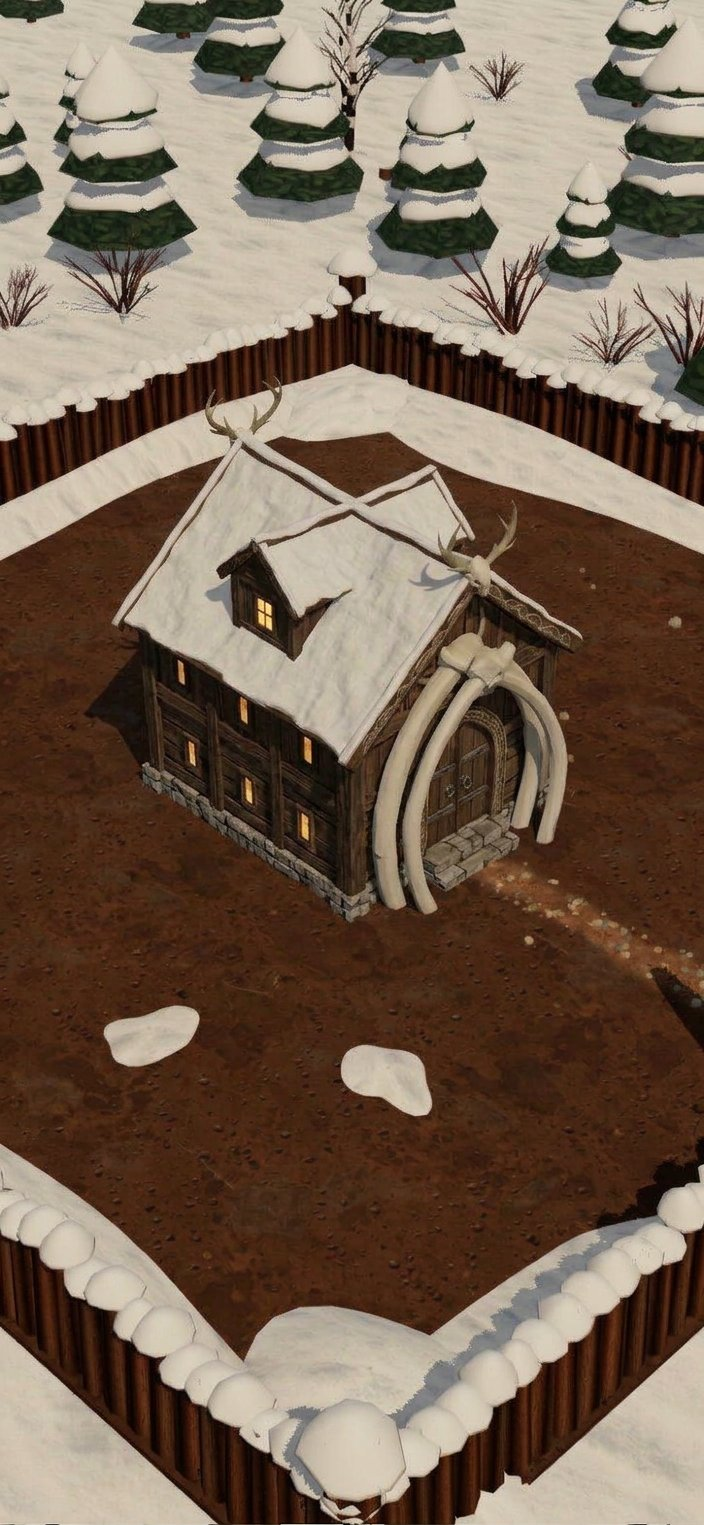
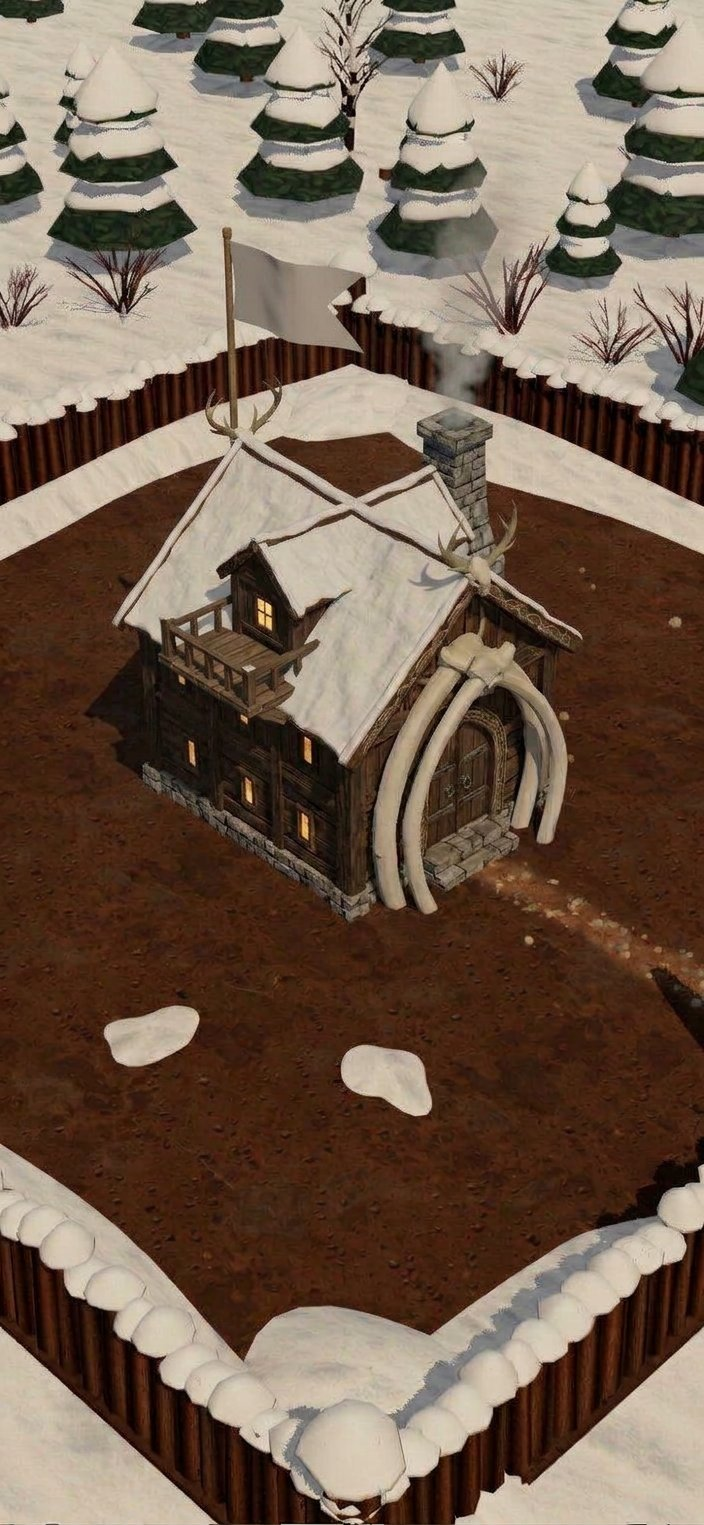
Цитадель: адаптивный флаг на всех стадиях, III усилена; решения записаны

diff --git a/docs/game/27-buildings-analysis.md b/docs/game/27-buildings-analysis.md
@@ -168,6 +168,8 @@
 3. После выбора общего стиля остальные здания делаем постепенно в нём же.
 4. **Прогресс виден внешне:** у каждого здания 25 уровней и 5 внешних видов — смена каждые 5 уровней (1–5, 6–10, 11–15, 16–20, 21–25), с каждым видом «лучше».
 
+5. **Цитадель** (02.10.2026): стиль «костяной зал», пять стадий на фиксированных 3×3 клетках (концепты: `ui/concepts/phase-05-citadel/final/`). Размеры зданий в клетках не меняются со стадиями, иначе постройки накладываются друг на друга. Материал растёт от дерева к камню и металлу, декор скромный. На каждой Цитадели адаптивный флаг: герб игрока, созданный при регистрации.
+
 ## 6. Итоговые названия (RU / EN)
 
 Правила названий: простое слово, которое понимает любой игрок и которое один в один переводится на английский; имя

diff --git a/docs/game/ui/concepts/phase-05-citadel/README.md b/docs/game/ui/concepts/phase-05-citadel/README.md
@@ -4,6 +4,8 @@
 
 Всё остальное — рабочие материалы: `footprint-3x3.jpg` (сцена с контуром 3×3), `reference-yard.jpg` (чистая сцена), `archive/` (первые пять вариантов стиля `variants/`, прежние версии стадий и проверка контура).
 
+**Флаг (решение 02.10.2026):** на каждой Цитадели один адаптивный флаг на шесте у заднего конца конька. Ткань нейтральная, без эмблемы: на неё в игре ложится герб, который игрок создаёт при регистрации. Размер флага растёт со стадией, место крепления одно на всех стадиях. Тёмные знамёна с оленем со стадий IV и V убраны. Стадия III усилена умеренно: каменная труба с дымом и небольшой балкон. Версия без флага: `archive/final-before-flag/`.
+
 ---
 
 # Этап 5 — Цитадель: пять вариантов внешнего вида (01.10.2026)
